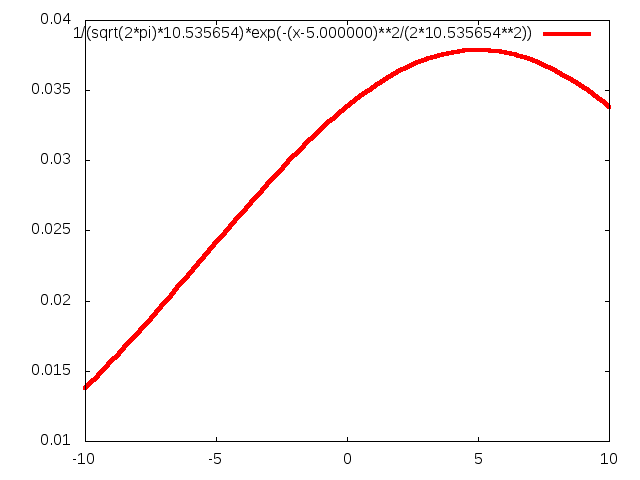
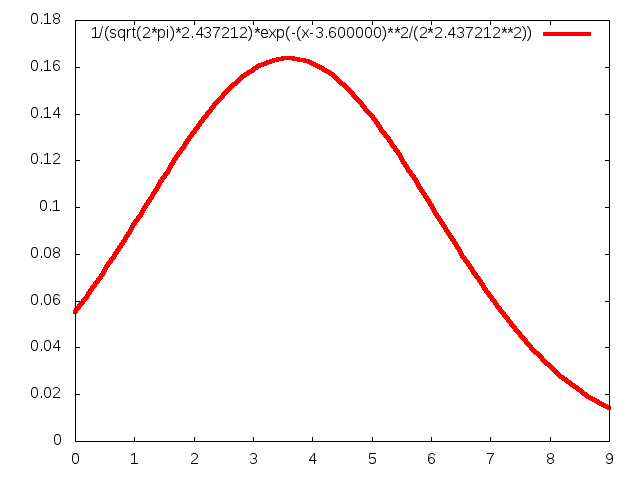
normal is done

diff --git a/Lab6/1/1.c b/Lab6/1/1.c
@@ -10,6 +10,7 @@ struct dpoint{
 	double cent;
 	int n;
 	double f;
+	double pbin;
 };	
 
 void
@@ -188,7 +189,7 @@ genPolDataAbs(struct dpoint* mas, int n)
 }
 
 void
-genScr(double a, double b, int y)
+genScr(double a, double b, int y, int tmp2)
 {
 	FILE* scr = fopen("scr_1.txt","w");
 	fprintf(scr, "set terminal png\n");
@@ -196,19 +197,58 @@ genScr(double a, double b, int y)
 	fprintf(scr, "set xrange [%lf:%lf]\n",a,b);
 	fprintf(scr, "set yrange [0:%ld]\n",y);
 	fprintf(scr, "set multiplot\n");
-	fprintf(scr, "plot \"Abs.txt\" u 2:1 w l lw 4\n");
+	if(tmp2)
+		fprintf(scr, "plot \"Abs.txt\" u 2:1 w l lw 4\n");
 	fprintf(scr, "plot \"Abskr.txt\" u 2:1 w l lw 4 lt rgb 'red'\n");
 	fclose(scr);
 }
 
 void
-genScrN(double a, double sig)
+genScrN(double a, double sig, double x, double y)
 {
 	FILE* scr = fopen("scr_2.txt","w");
 	fprintf(scr, "set terminal png\n");
 	fprintf(scr, "set output 'Abs1.png'\n");
+	fprintf(scr, "set xrange [%lf:%lf]\n",x,y);
 	fprintf(scr, "plot 1/(sqrt(2*pi)*%lf)*exp(-(x-%lf)**2/(2*%lf**2)) lw 4 lt rgb 'red'",sig,a,sig);
 	fclose(scr);
+}
+
+void
+swap(struct dpoint* mas, int i, int j)
+{
+	struct dpoint tmp = mas[i];
+	mas[i] = mas[j];
+	mas[j] = tmp;
+}
+
+void
+sort(struct dpoint* mas, int n)
+{
+	for (int i = 0; i < n-1; i++){
+		for (int j = i+1; j < n; j++){
+			if (mas[j].cent < mas[i].cent){
+				swap(mas,i,j);
+			}
+		}
+	}
+}
+
+void
+genPiData(struct dpoint* mas, int n, double* p, int tmp2)
+{
+	FILE* out = fopen("Pi.txt","w");
+	if(tmp2){
+		for(int i = 0; i < n; i++){
+			fprintf(out, "(%.3lf, %.3lf) | %.3lf\n",mas[i].a,mas[i].b,p[i]);
+		}
+	}else{
+		for(int i = 0; i < n; i++){
+			fprintf(out, "%.3lf | %.3lf\n",mas[i].cent,p[i]);
+		}
+	}
+	fclose(out);
+	system("subl Pi.txt");
 }
 
 void
@@ -220,8 +260,6 @@ CheckNorm(struct dpoint* mas, int n, double a, int tmp2)
 	double x = 0.0;
 	double D = 0.0;
 	double sig = 0.0;
-	double S2 = 0.0;
-	double s = 0.0;
 	int sum = 0;
 	int mx = 0;
 	for(int i = 0; i < n; i++){
@@ -236,10 +274,11 @@ CheckNorm(struct dpoint* mas, int n, double a, int tmp2)
 	D /= sum;
 	D -= x*x;
 	sig = sqrt(D);
-	S2 = D*sum/(sum-1);
-	s = sqrt(S2);
-	printf("x is %.3lf\n",x);
-	printf("s is %.3lf\n",s);
+	printf("Xв = sum(XiNi)/N,(i=1,%ld) = %.3lf\n",n,x);
+	printf("Dв = sum(Xi^2Ni)/N - Xв^2,(i=1,%ld) = %.3lf\n",n,D);
+	printf("sig = sqrt(Dв) = %.3lf\n\n",sig);
+	printf("Предположительное мат ожидание = %.3lf\n",x);
+	printf("Предположительное ср.кв отклонение = %.3lf\n",sig);
 	if(tmp2){
 		p[0] = F0((mas[0].b-x)/sig) + 0.5;
 		for(int i = 1; i < n-1; i++){
@@ -262,24 +301,55 @@ CheckNorm(struct dpoint* mas, int n, double a, int tmp2)
 	printf("X2: %.5lf\n",X2);
 	double sr = GetXiSq(a,n-3);
 	printf("xi(table) %.5lf\n",sr);
-	genGistDataAbs(mas,n);
+	if(tmp2)
+		genGistDataAbs(mas,n);
 	genPolDataAbs(mas,n);
-	genScr(mas[0].a,mas[n-1].b,mx);
-	genScrN(x,sig);
+	if(tmp2)
+		genScr(mas[0].a,mas[n-1].b,mx,tmp2);
+	else
+		genScr(mas[0].cent,mas[n-1].cent,mx,tmp2);
+	if(tmp2)
+		genScrN(x,sig,mas[0].a,mas[n-1].b);
+	else
+		genScrN(x,sig,mas[0].cent,mas[n-1].cent);
 	system("gnuplot scr_1.txt");
 	system("gnuplot scr_2.txt");
+	genPiData(mas,n,p,tmp2);
 	if(sr > 0){
 		if(X2 <= sr){
+			printf("X2 <= XiTable\n");
 			printf("Гипотеза подтверждена\n");
 		}else{
+			printf("X2 > XiTable\n");
 			printf("Гипотеза опровергнута\n");
 		}
 	}else{
-		printf("а не найдена в таблице или количество интервалов меньше 4\n");
+		printf("а не найдена в таблице или количество интервалов/точек меньше 4\n");
 	}
 	system("ristretto Abs.png");
 }
 
+void
+CheckBin(struct dpoint* mas, int n, double a, int tmp2)
+{
+	double x = 0.0;
+	double D = 0.0;
+	double sig = 0.0;
+	int sum = 0;
+	int mx = 0;
+	for(int i = 0; i < n; i++){
+		x += mas[i].cent * mas[i].n;
+		D += mas[i].cent * mas[i].n * mas[i].cent;
+		sum += mas[i].n;
+		if(mas[i].n > mx){
+			mx = mas[i].n;
+		}
+	}
+	x /= sum;
+	D /= sum;
+	D -= x*x;
+	sig = sqrt(D);
+}
 int
 main(void)
 {
@@ -305,6 +375,7 @@ main(void)
 	}else{
 		n = generateMas(mas,"data.txt",tmp2);
 	}
+	sort(mas,n);
 	printf("N is %d\n",n);
 	printf("Проверка гипотезы о виде распределения по критерию Пирсона\n");
 	printf("0 - о нормальном распределении\n");
@@ -314,7 +385,7 @@ main(void)
 	double a;
 	scanf("%lf",&a);
 	if (tmp){
-		// CheckBin(mas,n,a);
+		CheckBin(mas,n,a,tmp2);
 	}else{
 		CheckNorm(mas,n,a,tmp2);
 	}

diff --git a/Lab5/1/1.c b/Lab5/1/1.c
@@ -51,17 +51,9 @@ generateMas(struct dpoint* mas, char* name)
 void
 swap(struct dpoint* mas, int a, int b)
 {
-	double tmp = mas[a].key;
-	int n = mas[a].n;
-	double f = mas[a].f;
-
-	mas[a].key = mas[b].key;
-	mas[a].n = mas[b].n;
-	mas[a].f = mas[b].f;
-
-	mas[b].key = tmp;
-	mas[b].n = n;
-	mas[b].f = f;
+	struct dpoint tmp = mas[a];
+	mas[a] = mas[b];
+	mas[b] = tmp;
 }
 
 //sort mas
